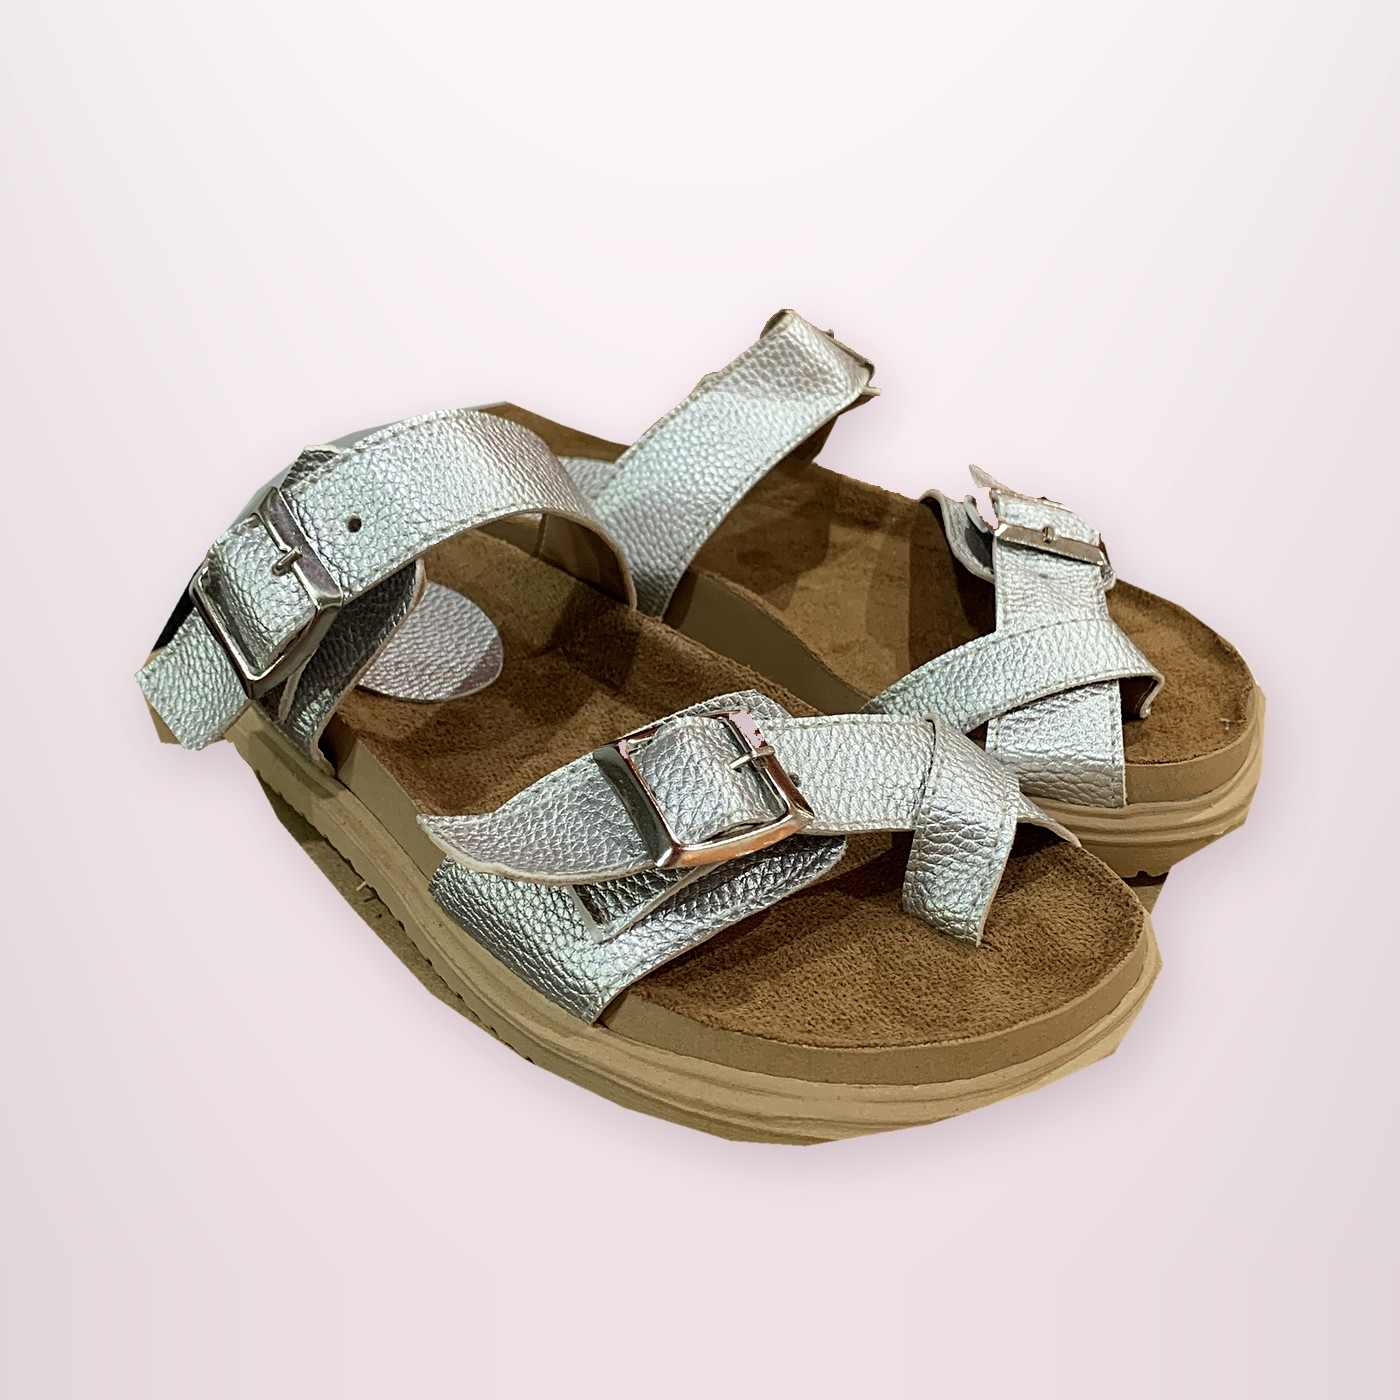
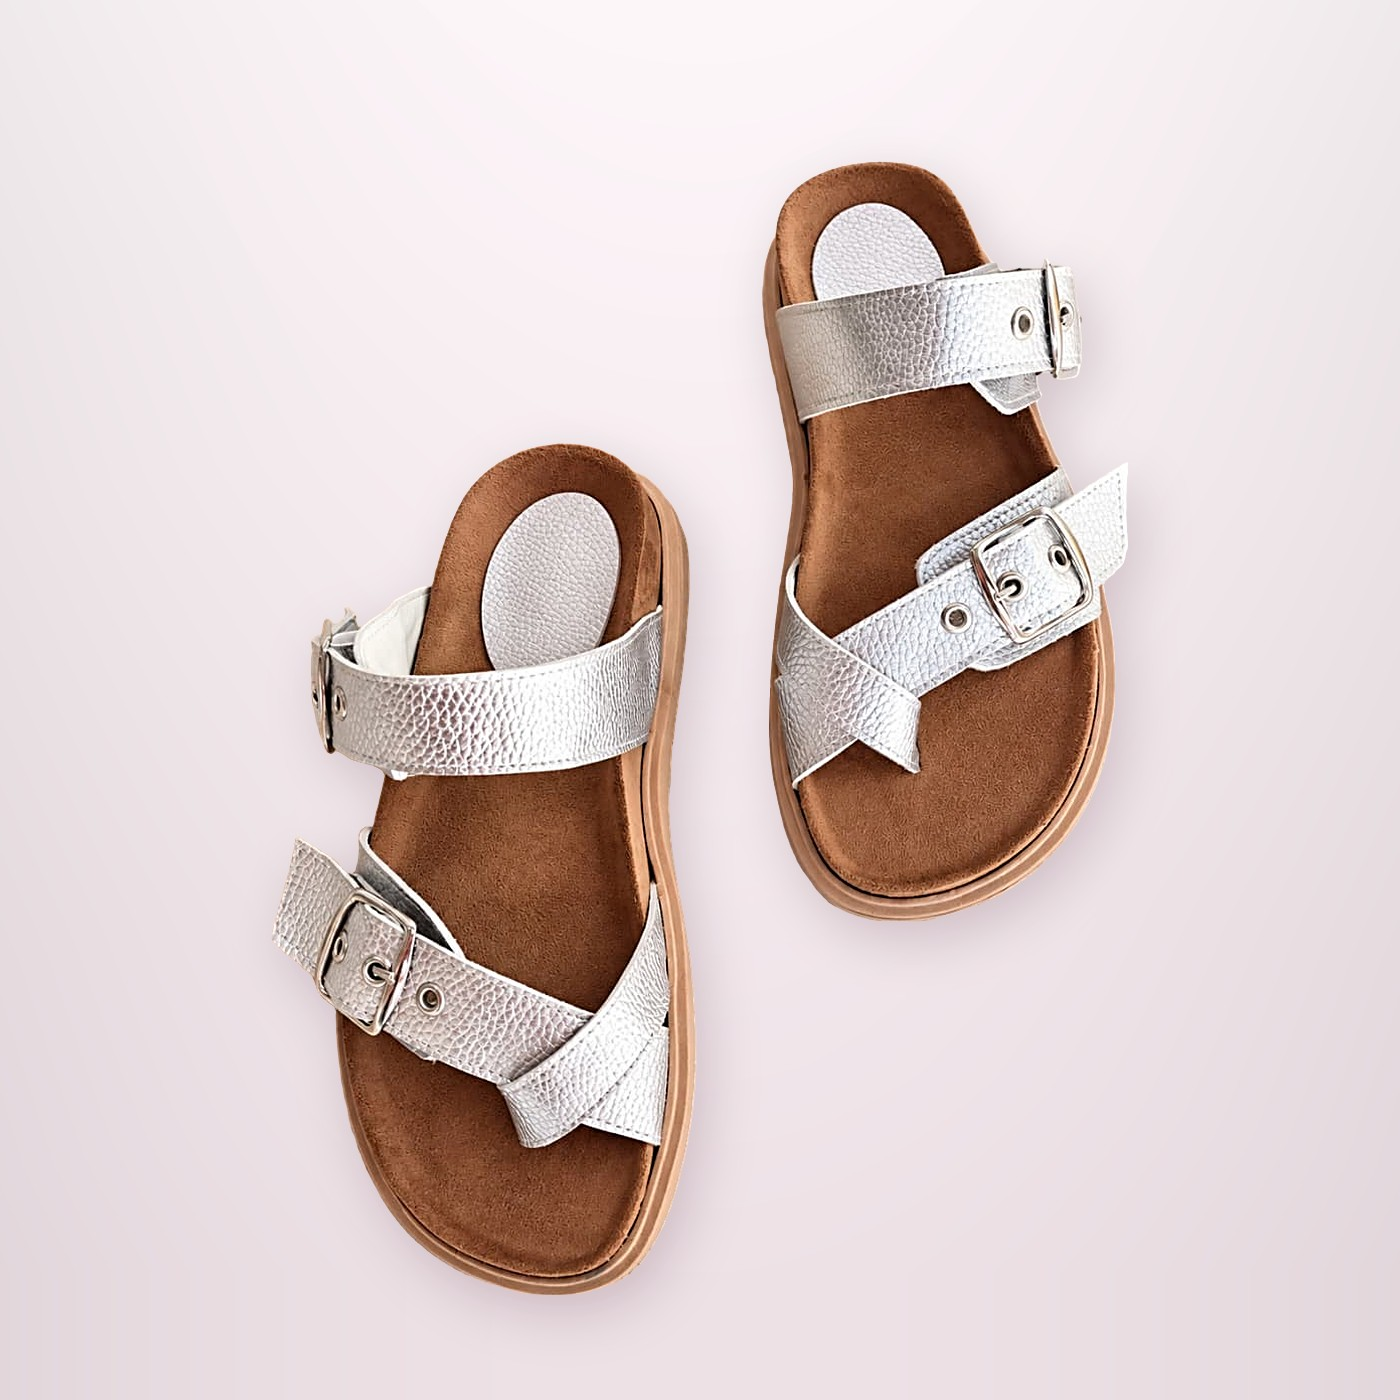
Sandalia con hebillas y tira al dedo: foto nueva
Claude-Session: https://claude.ai/code/session_016kC1pPyL2jkNLS5KGy46ZW

diff --git a/CLAUDE.md b/CLAUDE.md
@@ -44,7 +44,7 @@ No hay Node ni Python en las computadoras. `.claude/launch.json` → "tienda" le
 - Botineta texana símil víbora (id 84, 2026-09-29): Negro, Oro y Suela, $49.500 ($45.000 + 10%), talles 35–40, fotos propias.
 - Zapato texano símil víbora (id 85, 2026-09-29, la versión baja de la 84): Negro, Oro y Suela, $49.500 ($45.000 + 10%), talles 35–40, fotos propias.
 - Chavitos sin cordones (id 86, 2026-09-29, nombre que usa el local; gamuza estilo chelsea con suela de crepe), en su propia sección "Chavitos" (`cat:"chavitos"`, en `CATS` de tienda.js y caja en `envio.cajas`): Negro y Suela, $27.500 ($25.000 + 10%), talles 35–40, fotos propias.
-- Sandalia con hebillas y tira al dedo (id 87, 2026-09-29): Plata, $24.200 ($22.000 + 10%), talles 35–40, foto propia (la base se recuperó con un contorno a mano porque se confundía con la caja).
+- Sandalia con hebillas y tira al dedo (id 87, 2026-09-29): Plata, $24.200 ($22.000 + 10%), talles 35–40. 2026-10-10: foto reemplazada por una de estudio que mandó el dueño (vista de arriba, sobre el fondo de estudio).
 - Chavitos con cordones (id 88, 2026-09-29, sección Chavitos): Negro y Suela, $27.500 ($25.000 + 10%), talles 35–40, fotos propias (en la negra se borró el parche con logo "Tamara Rey").
 - Chavitos sin cordones con suela de borcego (id 89, 2026-09-29, sección Chavitos): Negro, $27.500 ($25.000 + 10%), talles 35–40, foto propia (se neutralizó el reflejo naranja de la caja en la suela).
 - Chavitos con cordones con suela de borcego (id 90, 2026-09-29, sección Chavitos): Negro, $27.500 ($25.000 + 10%), talles 35–40, foto propia (se borraron los parches con logo "Tamara Rey" y la etiqueta colgante).
